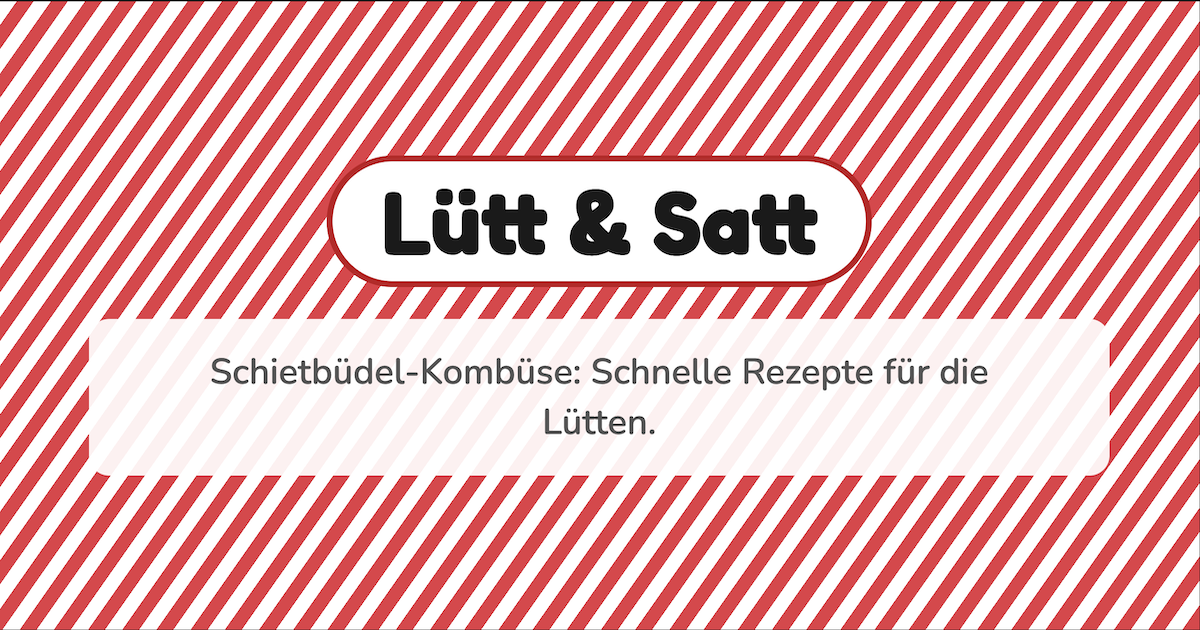
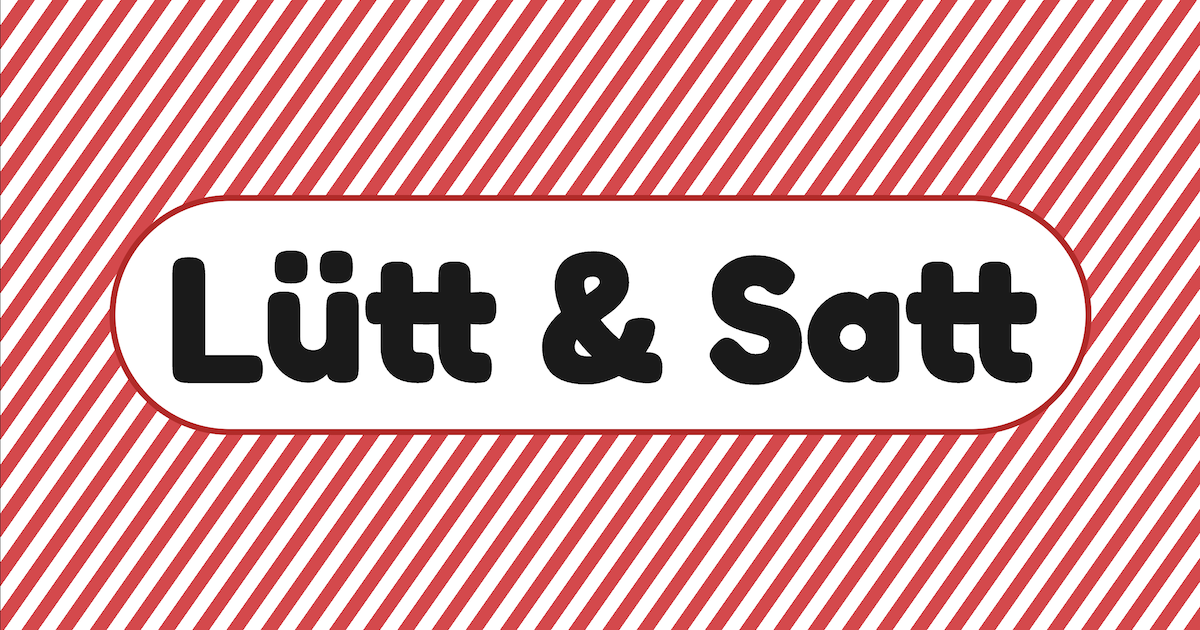
chore: simplified image

Changed region(s): [[0.0, 0.0, 1.0, 1.0], [0.8633, 0.181, 0.8942, 0.2111]]

diff --git a/static/og-generator.html b/static/og-generator.html
@@ -43,7 +43,7 @@
         /* Logo-Badge — identisch mit .header .logo a in custom.css */
         .logo-badge {
             font-family: 'Fredoka', cursive;
-            font-size: 90px;
+            font-size: 180px;
             font-weight: 700;
             color: #1a1a1a;
             background: #ffffff;
@@ -54,40 +54,18 @@
             display: inline-block;
         }
 
-        /* Weißes Infofeld für Anker + Untertitel */
-        .info-card {
-            background: rgba(255, 255, 255, 0.92);
-            border-radius: 20px;
-            padding: 28px 60px;
-            display: flex;
-            flex-direction: column;
-            align-items: center;
-            gap: 12px;
-            max-width: 900px;
-        }
-
         .anker {
-            font-size: 64px;
+            font-size: 160px;
             line-height: 1;
         }
 
-        .subtitle {
-            font-family: 'Nunito', sans-serif;
-            font-size: 36px;
-            font-weight: 600;
-            color: #555;
-            line-height: 1.4;
-            margin: 0;
-        }
     </style>
 </head>
 <body>
 
     <div class="og-container">
+        <!-- <div class="anker">⚓</div> -->
         <div class="logo-badge">Lütt &amp; Satt</div>
-        <div class="info-card">
-            <p class="subtitle">Schietbüdel-Kombüse: Schnelle Rezepte für die Lütten.</p>
-        </div>
     </div>
 
 </body>